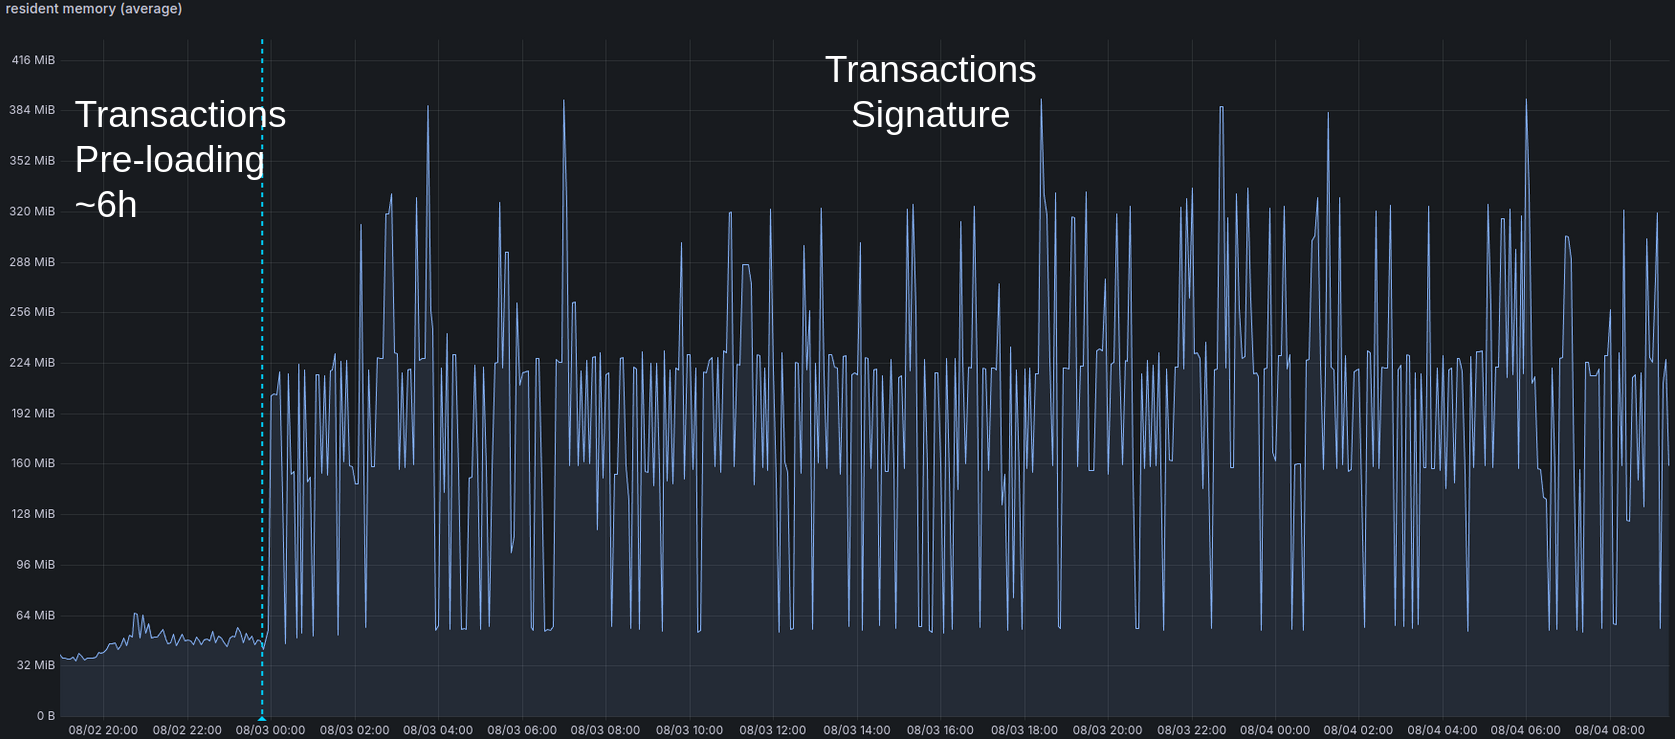
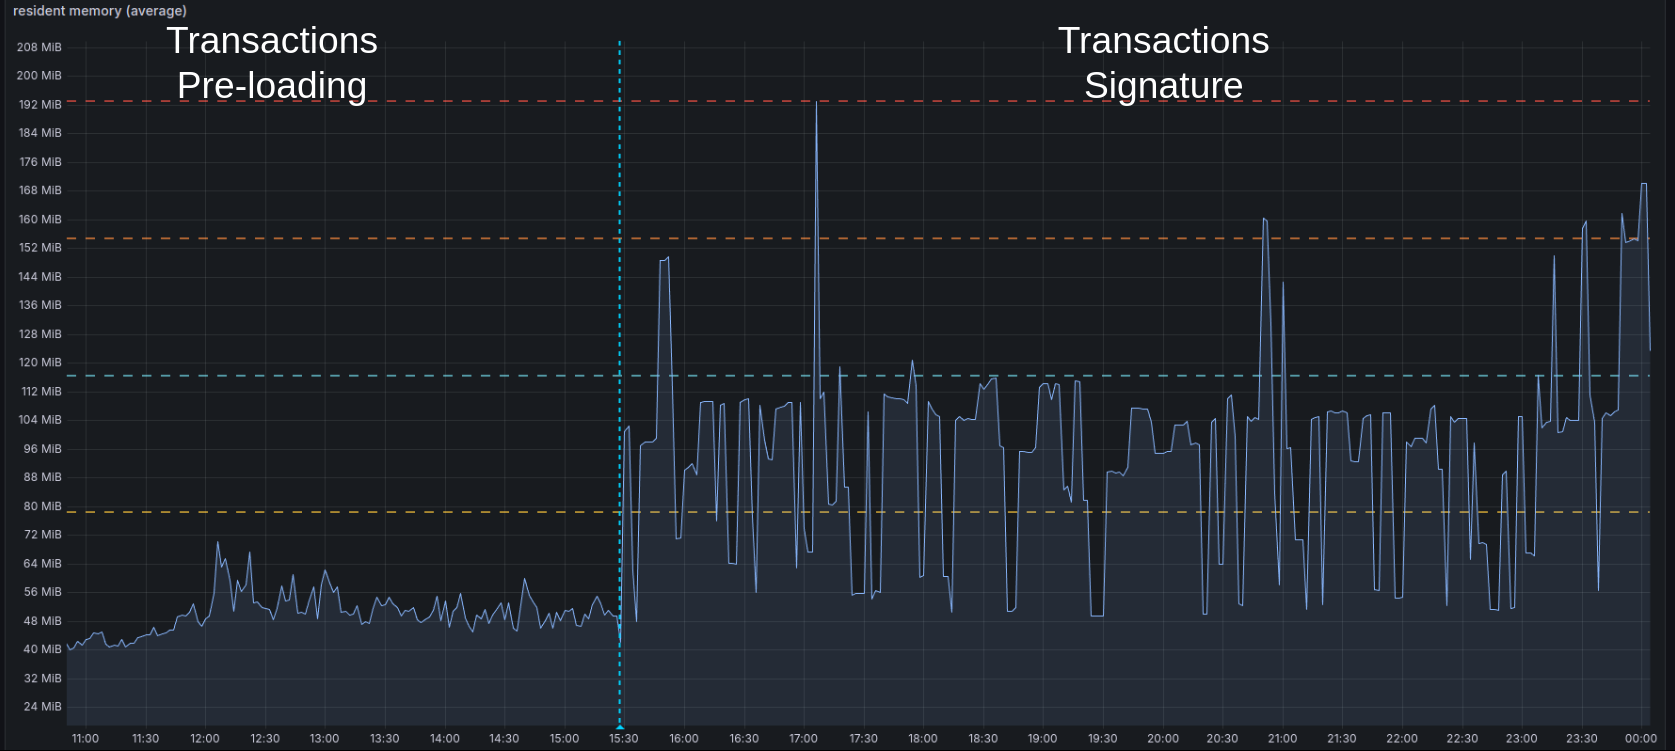
docs: update signer footprint in SPO setup guide
Done following the memory optimization brought on the signer Merkle tree storage engine.

diff --git a/docs/website/root/manual/getting-started/run-signer-node.md b/docs/website/root/manual/getting-started/run-signer-node.md
@@ -72,18 +72,18 @@ Thus, there are no extra requirements on the recommended hardware than for runni
 Here are some figures about the Mithril signer node running on the `mainnet` Cardano network:
 
 - It is **idle** most of the time with a very low **CPU** usage of less than `5%`.
-- It is using less than `400MB` of **resident memory**.
-- It sends to the aggregator a **new signature** roughly every `10 minutes` and a **new registration** every `5 days` (`<1MB` per day).
-- When launched for the **first time**, a **pre-loading** phase occurs where the Cardano transactions will be imported with a spike of `50-70%` CPU on one core for `~6 hours`.
+- It is using less than `200 MB` of **resident memory**.
+- It sends to the aggregator a **new signature** roughly every `10 minutes` and a **new registration** every `5 days` (`<1 MB` per day).
+- When launched for the **first time**, a **pre-loading** phase occurs where the Cardano transactions will be imported with a spike of `50-70%` CPU on one core for `~5 hours`.
 - When signing for the **first time**, the Cardano database digest cache needs to be built with a spike of `50-70%` CPU on one core for `~1 hour`.
 - Also, the full Cardano database files will be **read from disk once** during this cache building process.
-- Only **stake distributions**, **Mithril keys** and some **cache** (for the **Cardano database** and the **Cardano transactions**) are stored on the disk (`<200MB`).
+- Only **stake distributions**, **Mithril keys** and some **cache** (for the **Cardano database** and the **Cardano transactions**) are stored on the disk (`<200 MB`).
 
 :::
 
 ### Cardano transactions certification footprint
 
-Here is detailed view of the impact of the signature of the Cardano transaction on the SPO infrastructure on the `mainnet`:
+Here is detailed view of the impact of the signature of the Cardano transactions (the most resource intensive part of Mithril) on the SPO infrastructure on the `mainnet`:
 
 #### CPU
 
